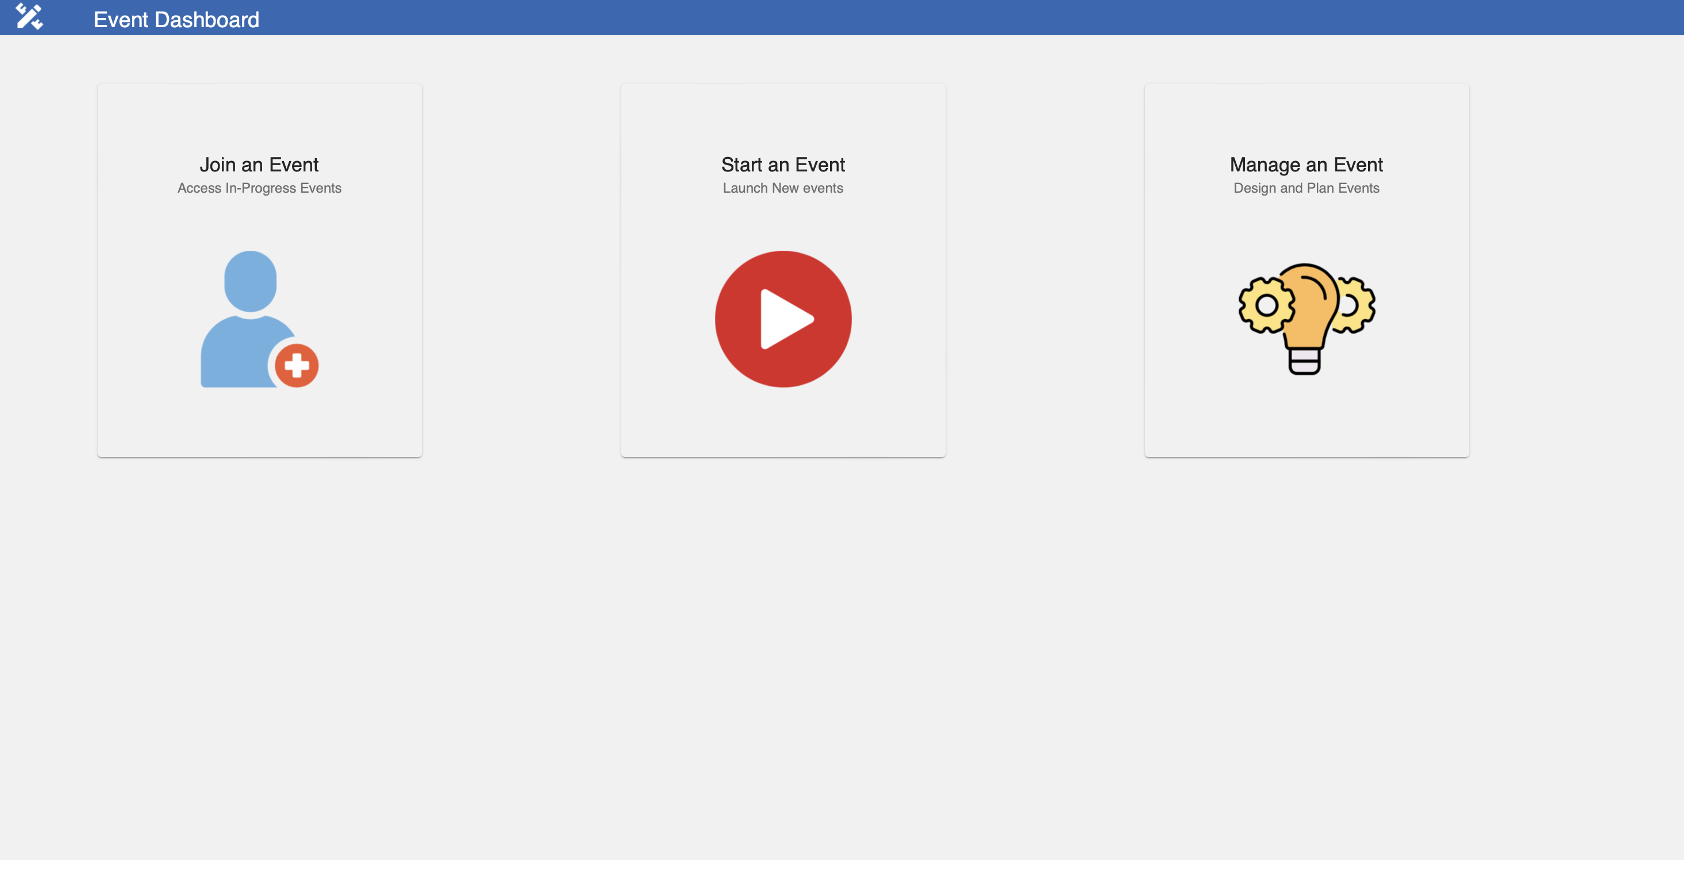
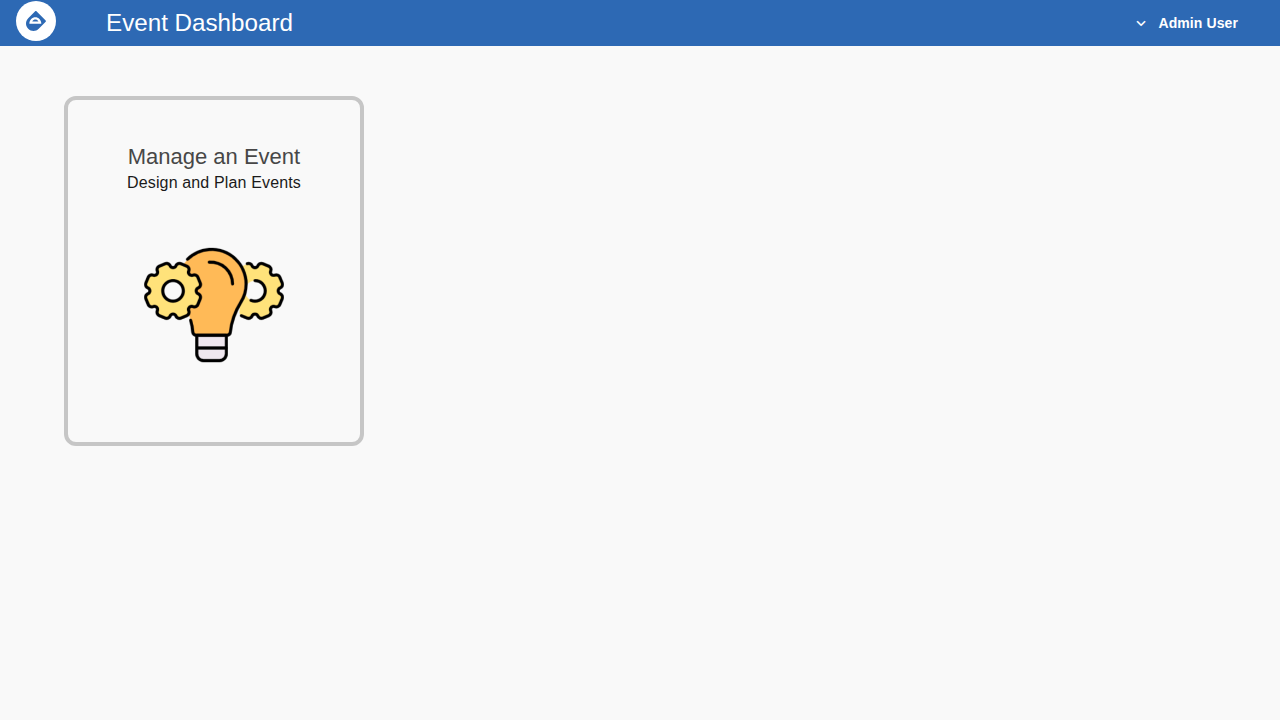
Blueprint documentation updates

diff --git a/docs/blueprint/index.md b/docs/blueprint/index.md
@@ -255,27 +255,31 @@ To search for a specific user, follow these steps:
 
 Content developers use Blueprint to build and manage MSELs.
 
-### Blueprint Landing Page
+### Event Dashboard
 
-The landing page of Blueprint provides a variety of interaction modalities for exercises, tailored according to the permissions assigned to each user. The functionalities available are as follows:
+The **Event Dashboard** is Blueprint's homepage. It shows a card-based layout with up to three cards tailored to the current user's permissions. While data loads, an **Initializing Data** card is displayed with a progress spinner.
 
-![Blueprint Landing Page OE](img/blueprintLandingPage.png)
+![Blueprint Event Dashboard](img/blueprintLandingPage.png)
 
 #### Join an Event
 
-Users with an invitation or membership on a participating team can join an event already in progress. Users click **Join Event** to open a page that lists all ongoing events available to them. They select an event to proceed to Player, where they access exercise information and related applications.
+If the user has been invited to an active (deployed) MSEL, a **Join an Event** card is shown with the subtitle *Access In-Progress Events*. Clicking the card navigates to `/join`, which lists every MSEL the user is currently eligible to join. Selecting a MSEL proceeds to Player, where the user can access exercise information and related applications.
 
 #### Start an Event
 
-Users with an invitation to an exercise MSEL designated as a template can initiate the event and engage with the exercise.
-
-After users click **Start Event**, the system redirects them to a page listing all available events other users have invited them to. They should select a template to launch the event and proceed to Player, where they can access all exercise information and deployed applications.
+If the user has permission to launch template MSELs, a **Start an Event** card is shown with the subtitle *Launch New events*. Clicking the card navigates to `/launch` and lists the MSELs the user may launch. Selecting a template launches the event and proceeds to Player.
 
 #### Manage an Event
 
-Users with administrative roles, content developer permissions, or contributor designation on the MSEL can see this option. They can continue developing the current MSEL or create a new one.
+If the user has an administrator role, holds the `CreateMsels` permission, or is a contributor on any MSEL, a **Manage an Event** card is shown with the subtitle *Design and Plan Events*. Clicking the card navigates to `/build`, where the user can create, edit, delete, and open MSELs.
+
+If the user has no MSELs and no `CreateMsels` permission, the cards are replaced with a single **Nothing to see here!** card.
 
 ### Player Manage Event Page
+
+!!! note
+
+    Most invitation management now happens directly from the MSEL's [Invitations](#invitations) tab in Blueprint. The Player Manage Event application described below is still used by participants after a launched event is running, but MSEL owners typically create and manage invitations in Blueprint before launch.
 
 When a user starts an event (as described above), Blueprint adds a **Manage Event** application to the left side panel of the Player view. The Manage Event application lets the user change the event end time, end the event, and invite others to join.
 
@@ -315,16 +319,14 @@ To end an event, follow these steps:
 
 The MSEL Catalog shows created MSELs. Users can select a MSEL to work on, create a new one, and delete an existing one.
 
-<!-- TODO: Replace screenshot with version without numbered callout markers -->
-![Blueprint Dashboard OE](img/blueprintDashboard-v4.png)
+![Blueprint MSEL Catalog](img/blueprintDashboard-v4.png)
 
-#### Add Blank MSEL
+#### Create or Upload a MSEL
 
-Blueprint lets users create a MSEL from scratch directly in the application. This removes the hassle of Excel and makes visualizing information easier.
+Two actions are available in the MSEL list table header:
 
-#### Upload an Existing MSEL
-
-Users can upload a pre-existing MSEL and continue editing it in the application. This is useful to share existing MSEL work without having to add information to a blank MSEL one by one.
+- **Add blank MSEL** (**+** icon): creates a new MSEL with default settings. The new MSEL appears with status `Pending` and a description such as "Created from Default Settings by [username]".
+- **Upload a new MSEL from a file** (upload icon): opens a file chooser. Select an `.xlsx` file to create a new MSEL from its contents.
 
 #### Filter Display
 
@@ -336,47 +338,35 @@ Filter MSELs by categorization. Options are: All Types, Templates, and Not Templ
 
 ##### Statuses
 
-Filter MSELs by current status. Options are: All Statuses, Pending, Entered, Approved, and Completed.
+Filter MSELs by current status. Options are: `All Statuses`, `Pending`, `Entered`, `Approved`, `Deployed`, and `Completed`.
+
+!!! note
+
+    The filter dropdown uses `Completed` (past tense). The MSEL Status dropdown on the Config tab (see [Basic Information](#basic-information)) uses `Complete` and also exposes `Archived`. Both names refer to the same lifecycle state; the filter simply does not expose Archived MSELs by default.
 
 ##### Search
 
 Search for a specific MSEL by name.
 
-#### Load All MSELs
+The MSEL list header also exposes:
 
-Users with the appropriate administrative permissions can load and view all MSELs created.
+- **Show only MSELs I own or have access to** toggle (funnel icon with subtitle **All MSELs** / **My MSELs**): for admins, switches between viewing every MSEL and only MSELs the user owns or contributes to.
+- **Administration** gear: opens the Administration View (see [Administrator Guide](#administrator-guide)).
 
-#### Gear
+#### MSEL Row Actions
 
-Users with the appropriate administrative permissions can use the **Gear** icon to access Blueprint's administrative settings.
+Each MSEL row in the catalog exposes four icon buttons in the first column:
 
-#### Manage MSEL
+- **Download** (down-arrow icon): exports the MSEL as a `.xlsx` file.
+- **Upload .xlsx file to [MSEL name]** (up-arrow icon): replaces the MSEL's contents with data from the chosen file.
+- **Delete [MSEL name]** (trash can icon): permanently removes the MSEL and its associated data. Template MSELs cannot be deleted; the trash can is disabled for them.
+- **Copy [MSEL name]** (copy icon): duplicates the MSEL into a new, editable copy.
 
-Click a MSEL card to open it. The following actions are available from the MSEL card.
-
-#### Download
-
-Users can download a copy of any MSEL for offline use. Offline work is not recommended as users will miss Blueprint's features and updates.
-
-#### Upload
-
-The Upload feature updates the MSEL card with information from a new `.xlsx` file, replacing all existing content.
+Click the MSEL's name (a link in the Name column) to open it for editing.
 
 !!! important
 
     When importing MSELs into Blueprint, verify that events and settings align with your preferences. Some fields may require reconfiguration after import.
-
-#### Delete
-
-The Delete feature removes an existing MSEL card and all associated information.
-
-#### Copy
-
-The Copy feature duplicates an existing MSEL card. Use this to modify a copy instead of the original.
-
-#### MSEL Cards
-
-Click a MSEL card to view its information. Users can edit or update existing information, and changes appear live for all collaborators.
 
 ### MSEL Definition
 
@@ -396,22 +386,42 @@ To edit the MSEL's basic information and configuration, follow these steps:
 
 #### Data Format Table
 
-| Field                            | Data Type     | Description                                                                                          | Example                             |
-| -------------------------------- | ------------- | ---------------------------------------------------------------------------------------------------- | ----------------------------------- |
-| **Name**                         | String        | Name of the MSEL                                                                                     | Hurricane Delta MSEL                |
-| **Description**                  | String        | Details and/or characteristics of the MSEL                                                           | Hurricane Delta Fort Myers Scenario |
-| **Start Date/Time**              | Datetime      | Start date/time of the MSEL                                                                          | 09/10/2024 20:00:00                 |
-| **End Date/Time**                | Datetime      | End date/time of the MSEL                                                                            | 10/10/2024 08:00:00                 |
-| **Is a Template**                | Boolean       | Designate if this MSEL should be a system template                                                   | True                                |
-| **Integrate Player**             | Boolean       | Add Player integration functionality to the MSEL                                                     | True                                |
-| **Integrate Gallery**            | Boolean       | Add Gallery integration functionality to the MSEL                                                    | True                                |
-| **Integrate CITE**               | Boolean       | Add CITE integration functionality to the MSEL                                                       | True                                |
-| **Select Scoring Model**         | Dropdown Text | Select a CITE Scoring Model                                                                          | `CISA NCISS`                        |
-| **Integrate Steamfitter**        | Boolean       | Add Steamfitter integration functionality to the MSEL                                                | False                               |
-| **MSEL Status**                  | Dropdown Text | Select MSEL status designation                                                                       | Active                              |
-| **Header Row Metadata (Height)** | Integer       | An integer value that defines the height of the header row when exporting this MSEL as an .xlsx file | 30                                  |
+| Field | Data Type | Description | Example |
+| --- | --- | --- | --- |
+| **Name** | String (max 70 characters) | Name of the MSEL | `Hurricane Delta MSEL` |
+| **Description** | String (max 600 characters) | Details and/or characteristics of the MSEL | `Hurricane Delta Fort Myers Scenario` |
+| **Is a Template** | Boolean | Marks this MSEL as a reusable template for creating new MSELs. Template MSELs cannot be deleted. | `True` |
+| **Set a Start Time** | Boolean | When checked, exposes a **Start Date / Time** picker and schedules a specific start moment for the MSEL. When unchecked, the MSEL is open-ended. | `True` |
+| **Start Date / Time** | Datetime | Start date/time of the MSEL (only visible when **Set a Start Time** is checked). | `09/10/2024 20:00:00` |
+| **Duration (d / h / m)** | Integer × 3 | End time relative to the start, expressed as days / hours / minutes. Click **+** to increment or type directly into each field. | `1 d 12 h 00 m` |
+| **Applications to Integrate** | Boolean checkboxes | Enable any of: Player, Gallery, CITE, Steamfitter. Enabling an integration activates additional MSEL sidebar tabs for that app. | Player: `True`, CITE: `True` |
+| **MSEL Status** | Dropdown | MSEL lifecycle state: `Pending`, `Entered`, `Approved`, `Deployed`, `Complete`, `Archived`. | `Approved` |
+| **Header Row Metadata (Height)** | Integer | Height of the header row when exporting this MSEL to `.xlsx`. | `30` |
+| **Difficulty Rating** | Dropdown | Metadata tag describing the exercise's difficulty. | (per framework) |
+| **Exercise Purpose** | Dropdown | Metadata tag describing why the exercise is being run. | (per framework) |
+| **Exercise Mode** | Dropdown | Metadata tag describing how the exercise is delivered. | (per framework) |
+| **Subject** | String | Free-text subject tags. | `incident response, network defense` |
+| **Keywords** | String | Searchable keyword tags. | `ransomware, financial services` |
+| **Date Created** | Date (read-only) | Date this MSEL was first saved. | `2026-05-08` |
+| **Created By** | String (read-only) | Name of the user who created this MSEL. | `Admin User` |
 
-To save these settings, click the **checkmark** at the top.
+To save Config-tab changes, click **Save Changes** at the top of the tab. **Cancel Changes** reverts unsaved edits. Both buttons are disabled until a change is made.
+
+#### Direct-Access URLs
+
+The Config tab exposes three copyable, shareable URLs. Each row shows a **Copy** (clipboard) button and a direct link.
+
+- **Exercise View URL** (`http://<host>/msel/{mselId}/view`): use this URL for direct read-only access to the Exercise MSEL (see [Exercise View](#exercise-view)).
+- **MSEL Starter URL** (`http://<host>/starter/?msel={mselId}`): use this URL for direct access to edit the Scenario Events list in starter mode.
+- **Assessor View URL** (`http://<host>/assess/?msel={mselId}`): use this URL for direct access to the Assessor View (see [Assessor View](#assessor-view)).
+
+#### Associating Competencies with a MSEL
+
+The Config tab includes a **Competencies** row that points the user at the MSEL's [Competencies](#competencies) tab, where a competency framework can be attached to the MSEL.
+
+#### Metadata
+
+The **Metadata** block on the Config tab captures non-functional descriptors that help with searching and filtering MSEL catalogs: **Difficulty Rating**, **Exercise Purpose**, **Exercise Mode**, **Subject** (free text), and **Keywords** (free text).
 
 #### Integrations
 
@@ -419,9 +429,9 @@ To save these settings, click the **checkmark** at the top.
 - **[CITE](#glossary):** Blueprint will add the evaluation, moves, actions, roles, teams, and users specified on the MSEL. To learn more about this integration, reference the [CITE](#cite) section.
 - **[Player](#glossary) & [Steamfitter](#glossary):** Blueprint will automate the adding of events specified on the MSEL, as well as configure exercise details in Player.
 
-#### Add Page
+#### MSEL Pages
 
-On this tab, users can add notes to the MSEL for team members with the appropriate permissions to work on and access.
+Beyond the **Config** section, the **Info** tab is a container for user-authored notes pages. Click **Add Page** on the Info tab to create a new page; each page can be restricted to elevated users or exposed to every MSEL user.
 
 ![Blueprint Notes Tab OE](img/blueprintNotes-v3.png)
 
@@ -472,6 +482,24 @@ The available roles are:
 - **[`Owner`](#glossary):** Owner of the MSEL, can view and edit the MSEL, as well as perform all of the functionalities that the MSEL provides (e.g., Add Teams, Add Integrations, Events).
 - **[`Evaluator`](#glossary):** Manages the exercise, can advance moves, execute events, and check events as completed.
 - **[`Viewer`](#glossary):** Can view the MSEL, but can't edit it.
+
+#### Competencies
+
+On the **Competencies** tab, MSEL owners attach a competency framework (defined in the Administration Competencies page) and select which work roles, tasks, and specific knowledge, skills, and abilities apply to the MSEL. Selected competencies can then be associated with teams and scenario events, enabling assessment during the Assessor View.
+
+##### Select a Competency Framework
+
+1. Navigate to the **Competencies** tab.
+2. In **Competency Framework**, select a framework from the dropdown. If no frameworks appear, define one in the Administration Competencies page.
+
+##### Add Competencies to the MSEL
+
+1. Expand the **Add Competencies** region.
+2. Browse work roles and competencies from the selected framework and select the items that apply to this MSEL.
+
+##### View MSEL Competencies
+
+Expand the **MSEL Competencies** region to see the table of competencies associated with the MSEL. Columns include **ID**, **Type**, **Framework**, **Name**, **Teams**, and **Events**. Use the search box to filter by name.
 
 #### Teams
 
@@ -779,6 +807,20 @@ To search for a specific event, follow these steps:
 While the **Events** tab lets MSEL owners and content developers manage events, the **Exercise View** tab gives participants read-only access to track current and future events during an exercise.
 
 ![Blueprint Exercise View OE](img/blueprintExerciseView-v3.png)
+
+#### Assessor View
+
+The **Assessor View** tab gives Evaluators read-only access to the MSEL during a live exercise for the purpose of recording assessment outcomes. It is accessible directly via the **Assessor View URL** on the Config tab (`/assess/?msel={mselId}`).
+
+#### MSEL Playbook
+
+The **MSEL Playbook** tab presents scenario events in a printable, page-at-a-time layout intended for offline reference by exercise controllers.
+
+Each event page shows: **Execution Time** (absolute + offset), **Move**, **Group**, **Integration Target**, **Control Number**, **Simulated Time**, **Status**, **Summary**, **From Org**, **To Org**, **Card Id**, **Source Type**, **Source Name**, **Delivery Method**, and the **Description** with rendered rich-text content.
+
+Pagination controls (**Previous page**, **Next page**, **Items per page**) appear at the top; the default is one event per page. Visual indicators mark the transition between moves.
+
+Click **Print MSEL Playbook** to open the browser's print dialog with only the playbook content in the printable area.
 
 #### Invitations
 
@@ -1162,7 +1204,11 @@ This glossary defines key terms and concepts used in the Blueprint application.
 
 **`Approver` Role:** Can view and edit the MSEL, but will have the added feature of approving a MSEL.
 
+**Assessor View:** Read-only MSEL view used by Evaluators during an exercise to record assessment outcomes. Directly accessible via the Assessor View URL on the Config tab.
+
 **Blueprint**: Web application created to make the development of a MSEL and events easier.
+
+**Catalog:** A reusable, named collection of scenario events associated with a specific inject type. Catalogs are defined in Administration → Catalogs and can be pulled into MSELs.
 
 **CITE:** Web application that allows multiple participants from different organizations to evaluate, score, and comment on cyber incidents.
 
@@ -1170,11 +1216,17 @@ This glossary defines key terms and concepts used in the Blueprint application.
 
 **`CITE` Role:** Provide a set of responsibilities assigned to a user during an exercise.
 
+**Competency:** A work role, task, knowledge, skill, or ability that comes from a competency framework and can be attached to a MSEL, a team, or a scenario event.
+
+**Competency Framework:** A named collection of competencies (for example, NICE Framework) defined in Administration → Competencies and linked to a proficiency scale.
+
 **Content Developer Permission:** Can view, edit, create, and approve events on the MSEL.
 
 **Data Fields:** Structured components containing essential information about the event's characteristics, context, and implications.
 
 **`Editor` Role:** Can edit the events assigned to them by the MSEL owner, but not other events. They cannot delete events or create new events.
+
+**Event Dashboard:** Blueprint's homepage. Presents up to three cards (Join an Event, Start an Event, Manage an Event) tailored to the user's permissions.
 
 **Events**: Specific scenario events or messages within the scenario that prompt users to implement designated actions.
 
@@ -1186,7 +1238,11 @@ This glossary defines key terms and concepts used in the Blueprint application.
 
 **Gallery Card:** The Gallery wall displays Gallery cards. Each Gallery card represents an article category. Cards show a background color based on the most recent article's status and the number of unread articles. Content developers define cards within each Gallery collection.
 
+**Group:** A named collection of users defined in Administration → Groups. Used for bulk permission management.
+
 **`Incrementer` Role:** When the MSEL owner has enabled CITE integration, this role allows a user to advance the current move.
+
+**Inject Type:** A named template describing the structure and data fields for a category of scenario events. Defined in Administration → Inject Types.
 
 **`Inviter` Role:** This role will allow a user to invite others to the MSEL event.
 
@@ -1197,6 +1253,8 @@ This glossary defines key terms and concepts used in the Blueprint application.
 **Moves:** A defined period of time during an exercise, where exercise organizers distribute a series of events for users to discuss and assess current incident severity.
 
 **MSEL:** (Master Scenario Events List) provides a timeline for all expected events, affiliated users and organizations during an exercise.
+
+**MSEL Playbook:** A printable, paginated view of a MSEL's scenario events intended for use by exercise controllers.
 
 **`Observer` Role:** When the MSEL owner has enabled Gallery or CITE integrations, this role allows a user to observe other team's progress on CITE and Gallery applications.
 
@@ -1209,6 +1267,8 @@ This glossary defines key terms and concepts used in the Blueprint application.
 **Player Apps:** List of applications accessible from the same Player view.
 
 **Player View:** These are the settings associated with building a view. You can edit, clone, and delete a view.
+
+**Proficiency Scale:** A reusable, named set of performance levels (for example, Novice, Intermediate, Advanced, Expert) attached to a competency framework.
 
 **Steamfitter:** Gives content developers the ability to create scenarios consisting of a series of scheduled tasks, manual tasks, and events which run against virtual machines during an event.
 